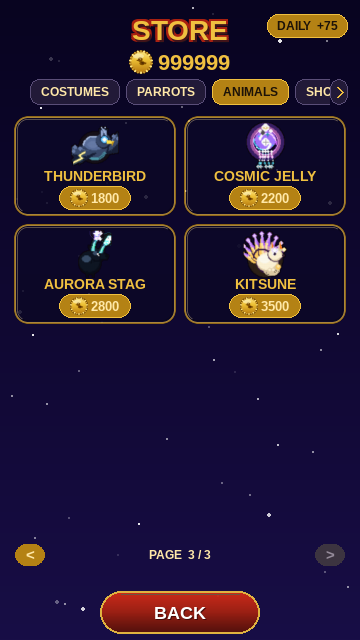
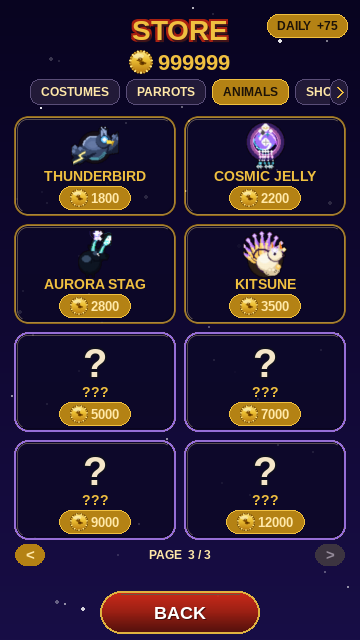
Showcase: mask secrets in the gallery + secret deliverable figures
Filter secret items out of the per-skin gameplay gallery (_tab_order) so the
committed docs don't spoil them; the regenerated store-page PNGs still show them
masked as ??? via the StoreScene render. Add the two deliverable figures
(masked-vs-revealed store, and the 4 secrets in gameplay).

Claude-Session: https://claude.ai/code/session_01VWgQuAkvyxHkg8ghp6aQ5y

Changed region(s): [[0.0306, 0.5, 0.9778, 0.8438], [0.9472, 0.5312, 0.9778, 0.6562]]

diff --git a/docs/showcase/render_showcase.py b/docs/showcase/render_showcase.py
@@ -59,8 +59,12 @@ def _phase_to_time(phase: float) -> float:
 
 def _tab_order(group: str) -> list[str]:
     """The exact card order the live store shows for a tab: cheapest-first,
-    with the free DEFAULT card fronting PARROTS and SHADES."""
+    with the free DEFAULT card fronting PARROTS and SHADES. Secret items are
+    omitted from this gameplay-gallery order so the committed docs don't spoil
+    them — the store-page render still shows them, masked as ???, since it draws
+    a real StoreScene whose throwaway wallet owns nothing."""
     ids = sorted(store_catalog.ids_of_group(group), key=store_catalog.cost)
+    ids = [i for i in ids if not store_catalog.is_secret(i)]
     if group in ("parrot", "shades"):
         ids = [store_catalog.BASE_SKIN] + ids
     return ids

diff --git a/docs/showcase/README.md b/docs/showcase/README.md
@@ -1,6 +1,6 @@
 # Skybit Store — visual showcase
 
-Every cosmetic in the coin Store, **category by category**: how each tab looks in the shop, and the parrot **Pip wearing every one of the 80 looks** (+ the free DEFAULT) in real gameplay. All art is procedural (drawn from code).
+Every cosmetic in the coin Store, **category by category**: how each tab looks in the shop, and the parrot **Pip wearing every one of the 84 looks** (+ the free DEFAULT) in real gameplay. All art is procedural (drawn from code).
 
 Each gameplay frame is staged in the same daytime scene so the looks compare cleanly; click any thumbnail for the full 360×640 screen.
 
